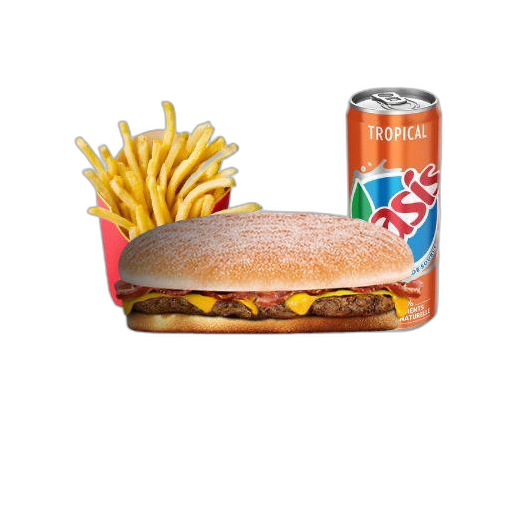
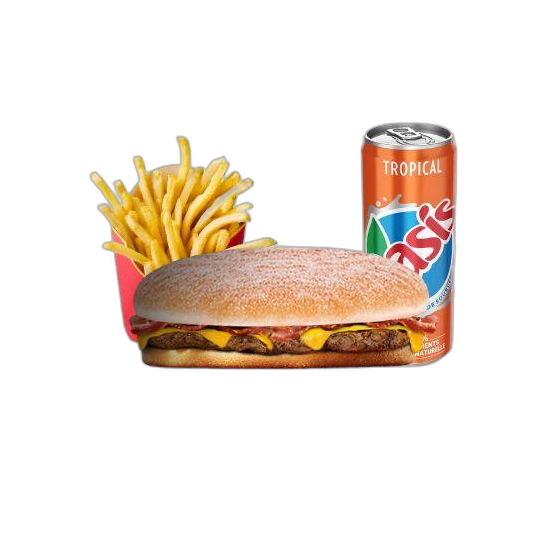
Adjust Menu Big Burger image position
Added more top padding to show full canette without cutting.
Image is now positioned lower in the frame.

Changed region(s): [[0.1208, 0.1509, 0.8453, 0.6642]]

diff --git a/index.html b/index.html
@@ -714,7 +714,7 @@
   <div class="product-grid">
     <div class="product-card big-only">
       <span class="price-tag">13€</span>
-      <img class="product-image" src="images/menu-big-burger.png?v=2" alt="Menu Big Burger" loading="lazy"/>
+      <img class="product-image" src="images/menu-big-burger.png?v=5" alt="Menu Big Burger" loading="lazy"/>
       <h3 class="product-name">Menu Big Burger</h3>
       <p class="product-desc">Frites + Boissons 33cl</p>
     </div>
